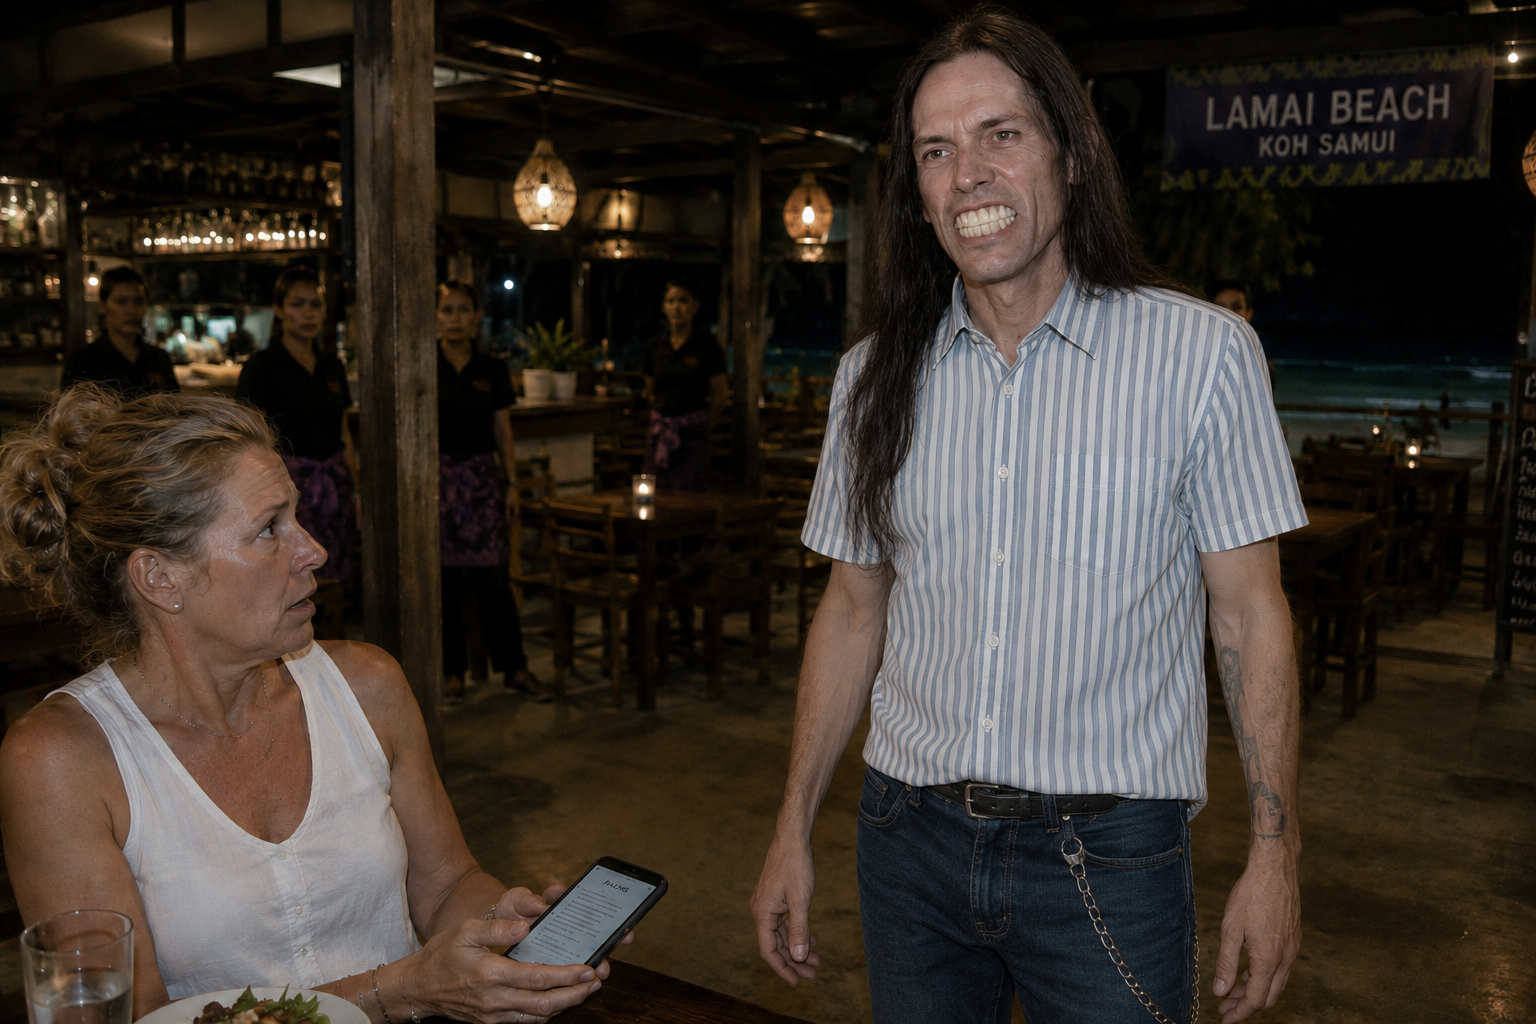
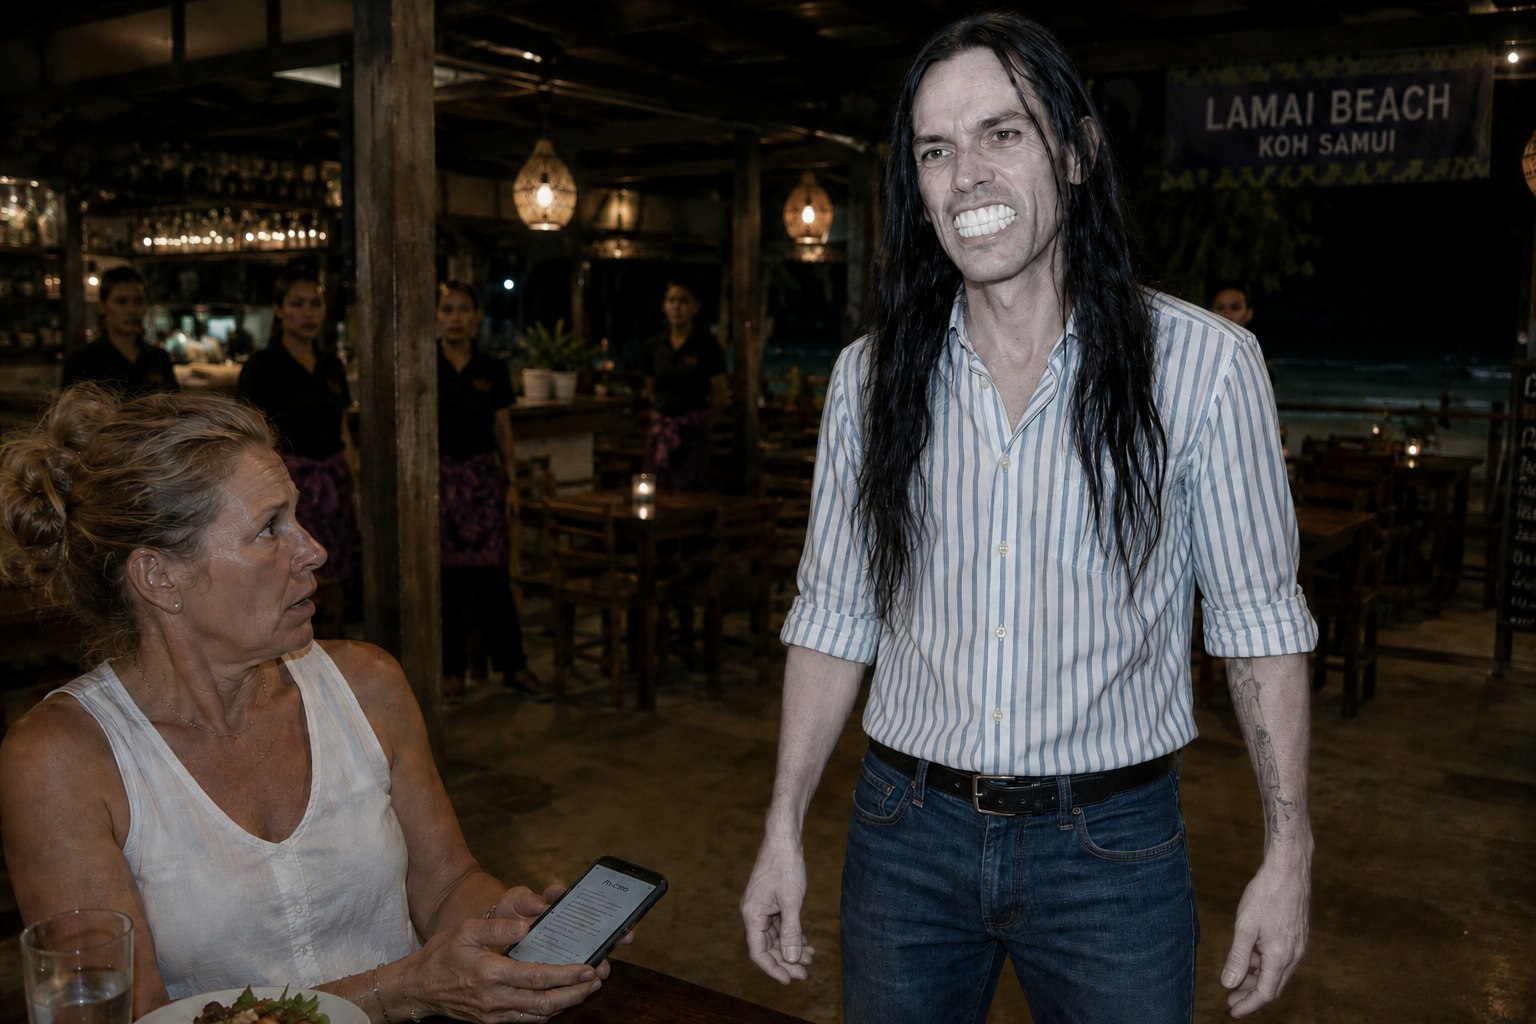
December 2024 editorial

diff --git a/docs/timeline/2024/december.md b/docs/timeline/2024/december.md
@@ -456,7 +456,7 @@ The woman in the pic above I believe is the [innocent lady groomed into porn](au
 - I'm sitting in the restaurant having some food and reading the set of Psalms I've been reading every Sunday on my mobile phone.
 - I become aware of a man hovering around.
 - I'm immediately suspicious of him.
-- He's British - I can hear him speaking with the waiters.
+- He's pale, white, British - I can hear him speaking with the waiters.
 - He has long, very greasy black hair, and what seems to be a Spanish wife (from the accent) and a daughter of about eight-years-old.
 - He glares at me baring his big, shining-white, well-dentistried teeth.
 